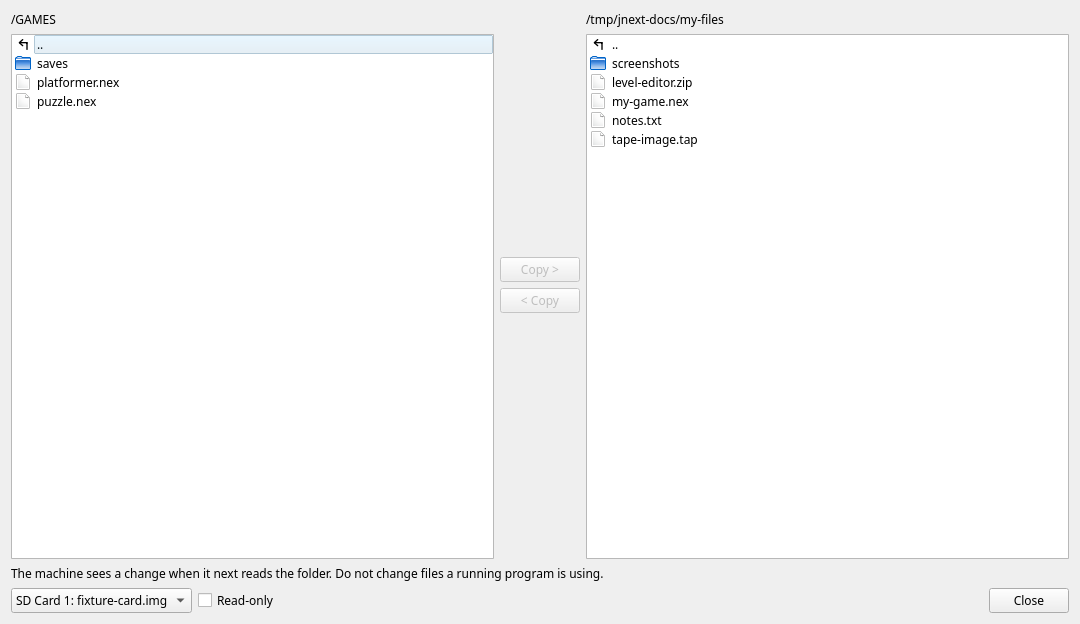
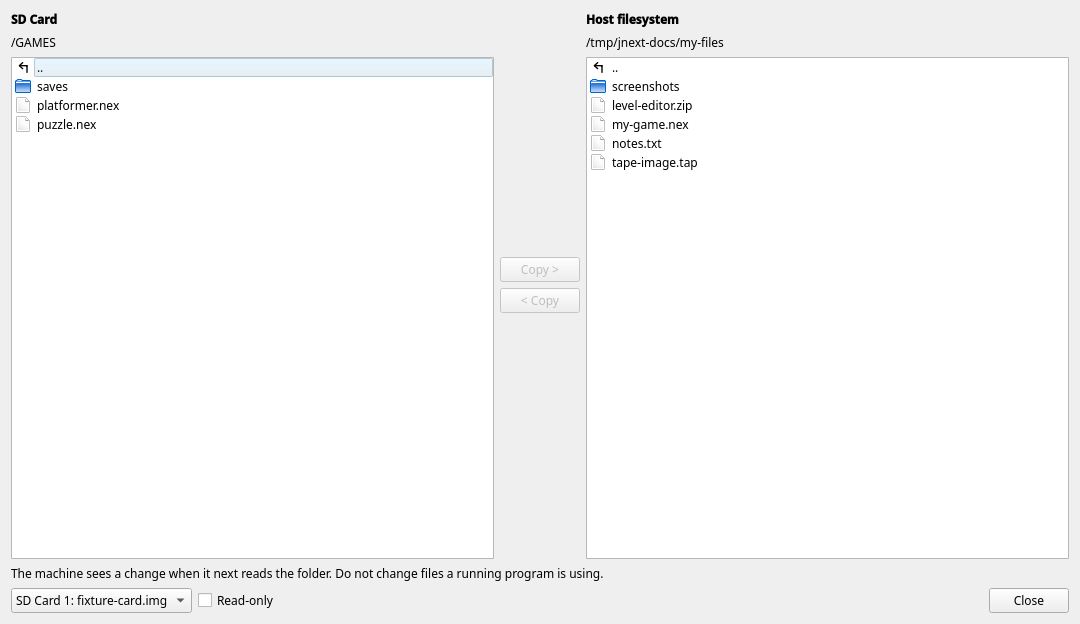
GH #558: a title over each pane of the SD card file manager (SD Card, Host filesystem); docshot re-captured

Changed region(s): [[0.0, 0.0, 0.4583, 0.2131], [0.55, 0.0, 0.6722, 0.274]]

diff --git a/src/gui/sdcard_manager_dialog.cpp b/src/gui/sdcard_manager_dialog.cpp
@@ -134,7 +134,15 @@ SdManagerDialog::SdManagerDialog(Emulator& emu, const sm::Remembered& remembered
 
     // Each pane is its folder's path over its list, and nothing else: the selector, the Read-only box and the note
     // are in the bottom row, so the two panes are the same size with their top and bottom edges aligned.
+    // a bold title over each pane says what it is
+    auto make_title = [this](const QString& text, const char* name) {
+        auto* t = new QLabel(QStringLiteral("<b>") + text.toHtmlEscaped() + QStringLiteral("</b>"));
+        t->setObjectName(QString::fromLatin1(name));
+        t->setSizePolicy(QSizePolicy::Ignored, QSizePolicy::Preferred);
+        return t;
+    };
     auto* left = new QVBoxLayout;
+    left->addWidget(make_title(tr("SD Card"), "card_title"));
     left->addWidget(card_path_);
     left->addWidget(card_view_, 1);
 
@@ -165,6 +173,7 @@ SdManagerDialog::SdManagerDialog(Emulator& emu, const sm::Remembered& remembered
     host_view->dropped = [this](const QMimeData& m, bool shift) { drop_on_host(m, shift); };
 
     auto* right = new QVBoxLayout;
+    right->addWidget(make_title(tr("Host filesystem"), "host_title"));
     right->addWidget(host_path_);
     right->addWidget(host_view_, 1);
 
